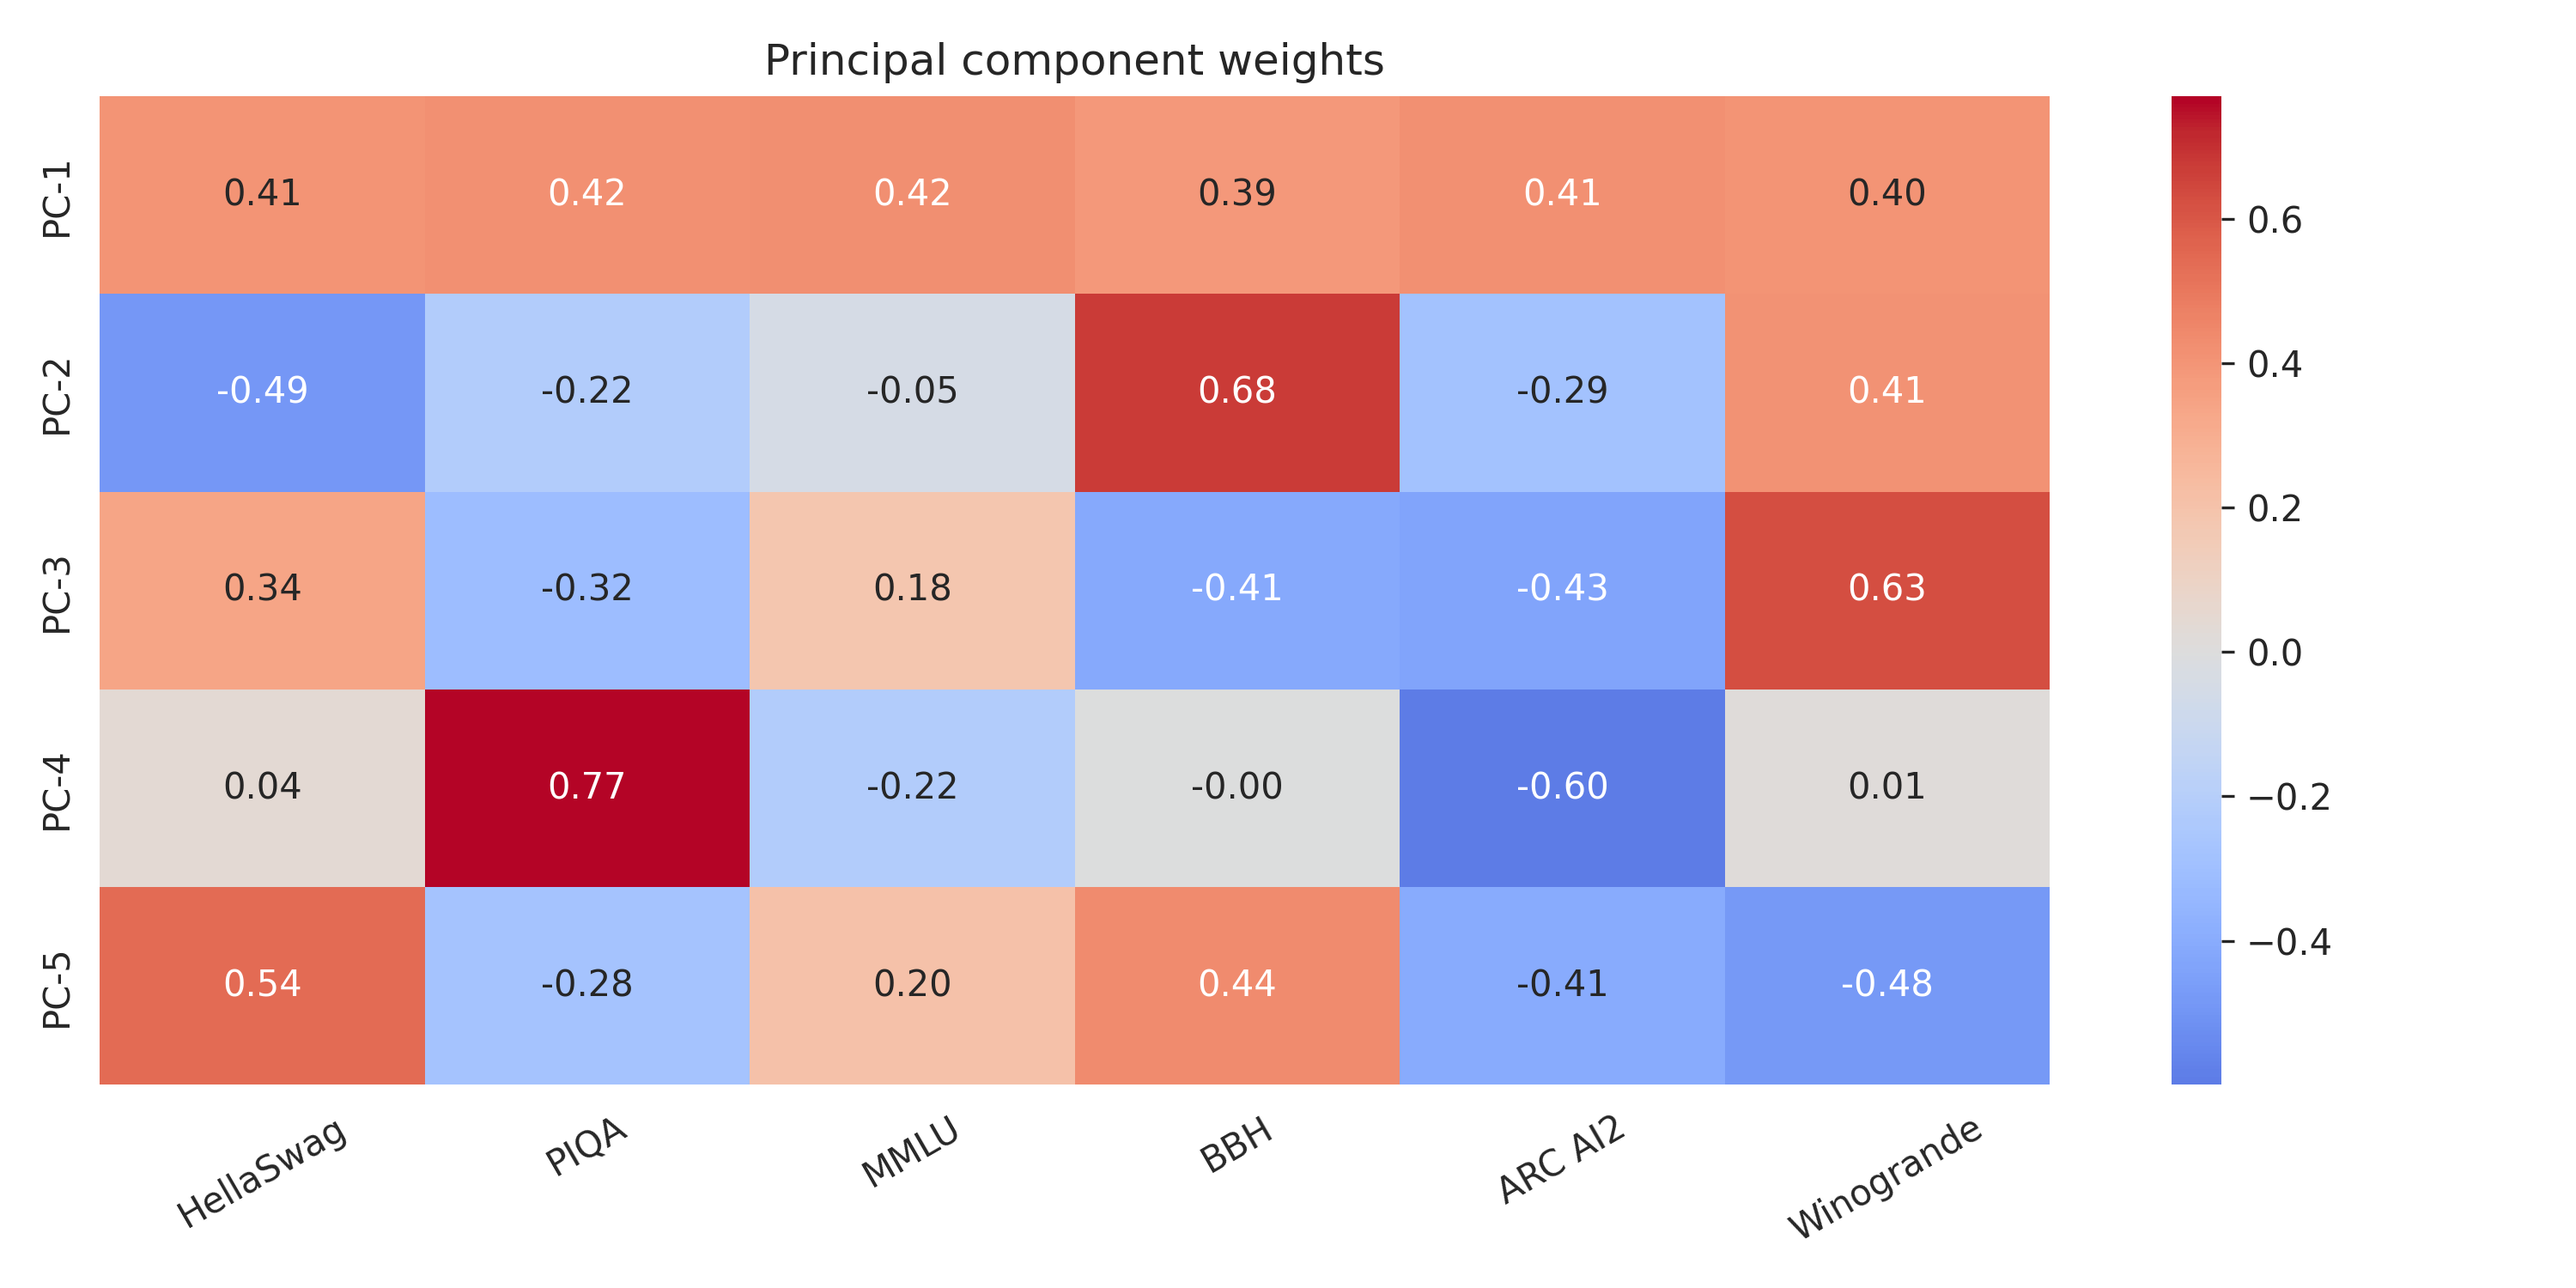
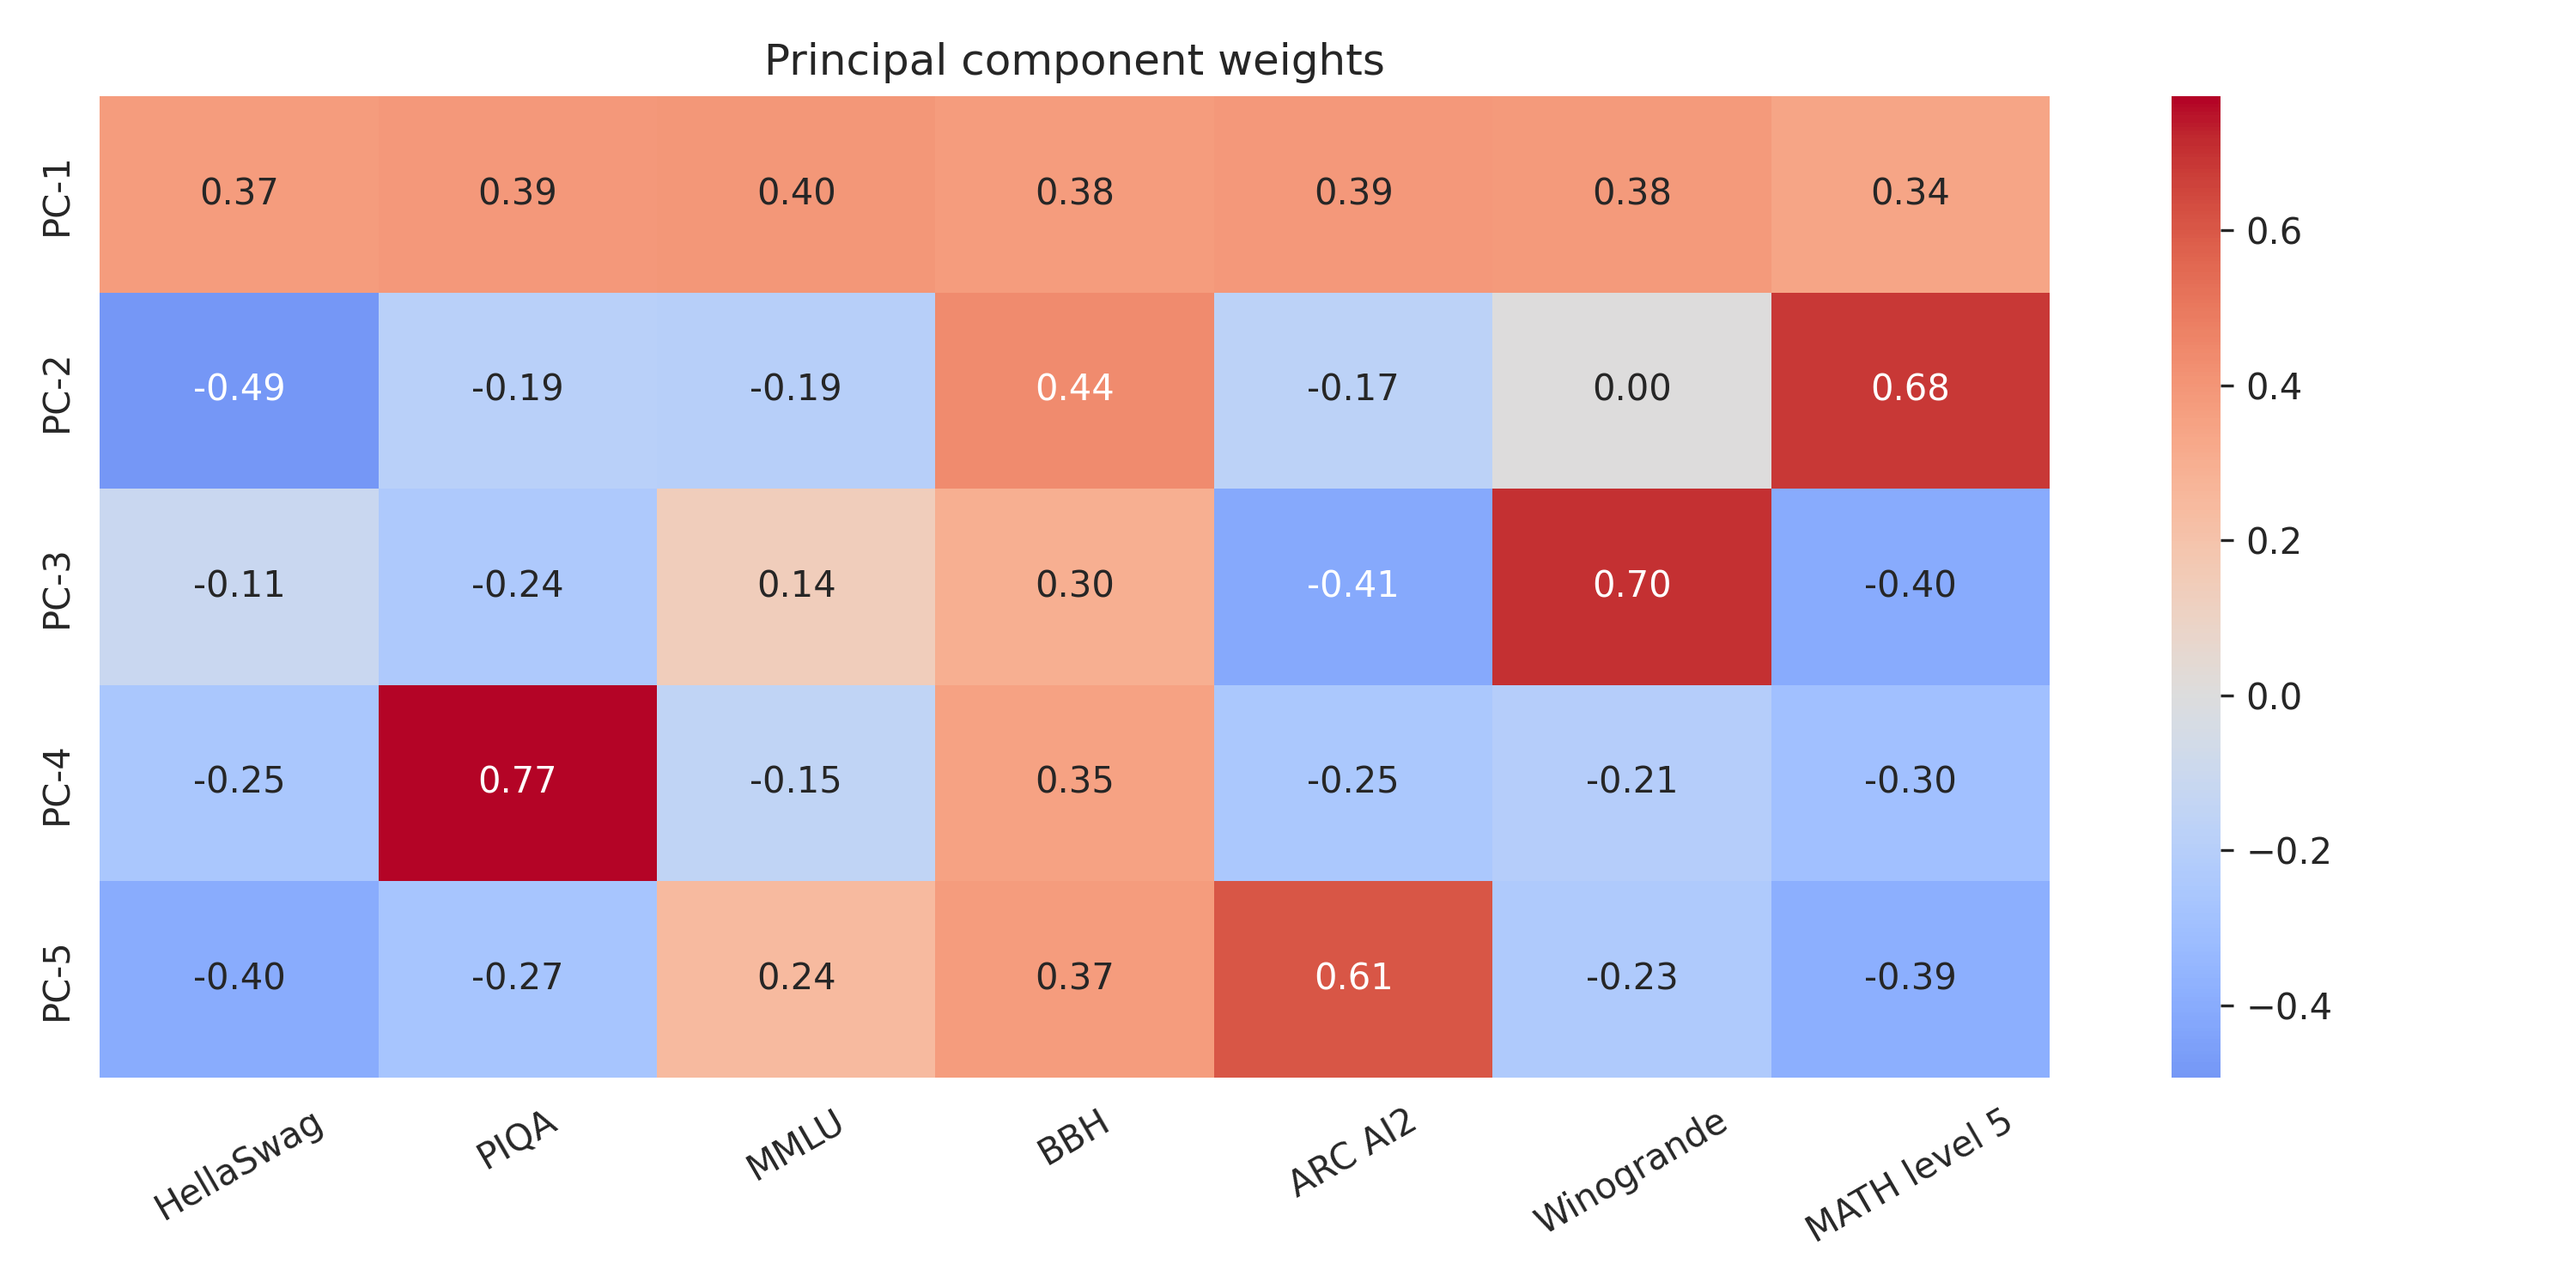
include math level 5

diff --git a/suze_experiments/20260212/pca.py b/suze_experiments/20260212/pca.py
@@ -39,6 +39,7 @@ EVAL_TO_ECI = {
     "bbh": "BBH",
     "arc_challenge": "ARC AI2",  # Epoch only uses Challenge score
     "winogrande": "Winogrande",  # 0-shot, 8192 tokens
+    "math_level_5": "MATH level 5",
 }
 
 REQUIRED_BENCHMARKS = list(EVAL_TO_ECI.values())
@@ -161,9 +162,11 @@ def _plot_explained_variance(evr: np.ndarray, outfile: Path, *, top_n: int) -> N
 
 
 def main() -> None:
+    # python suze_experiments/20260212/pca.py
     from src.modelx import load_baseline
 
     rows: list[dict[str, object]] = []
+    counts_by_benchmark: dict[str, int] = {}
     for eval_name, benchmark_name in EVAL_TO_ECI.items():
         df = load_baseline(str(BASELINE_FOLDER), eval_name)
         if df.empty:
@@ -172,25 +175,42 @@ def main() -> None:
         if "accuracy" not in df.columns:
             raise ValueError(f"Baseline DataFrame for '{eval_name}' is missing required 'accuracy' column")
 
+        models_with_score: set[str] = set()
         for _, r in df.iterrows():
             acc = r.get("accuracy")
             if pd.notna(acc):
+                model_name = str(r["model"])
+                models_with_score.add(model_name)
                 rows.append(
                     {
-                        "model": str(r["model"]),
+                        "model": model_name,
                         "benchmark": str(benchmark_name),
                         "score": float(acc),
                     }
                 )
+        counts_by_benchmark[str(benchmark_name)] = len(models_with_score)
 
     scores = pd.DataFrame(rows)
     if scores.empty:
         raise ValueError("No baseline scores loaded (unexpected).")
 
     pivot = scores.pivot_table(index="model", columns="benchmark", values="score", aggfunc="mean")
+
+    print("\n=== PCA inputs (ECI component benchmarks) ===")
+    print(f"Baseline folder: {BASELINE_FOLDER}")
+    print(f"Required benchmarks ({len(REQUIRED_BENCHMARKS)}): {REQUIRED_BENCHMARKS}")
+    print("\nModels with scores per benchmark (from baselines):")
+    for bench in REQUIRED_BENCHMARKS:
+        print(f"- {bench}: {counts_by_benchmark.get(bench, 0)} models")
+
     _raise_if_missing_required_scores(pivot, REQUIRED_BENCHMARKS)
 
     pivot = pivot[REQUIRED_BENCHMARKS].sort_index()
+    models_used = pivot.index.tolist()
+    print(f"\nModels used for PCA ({len(models_used)}):")
+    for m in models_used:
+        print(f"- {m}")
+
     x = pivot.to_numpy(dtype=float)
     xz, _, _ = _zscore_columns(x)
 
